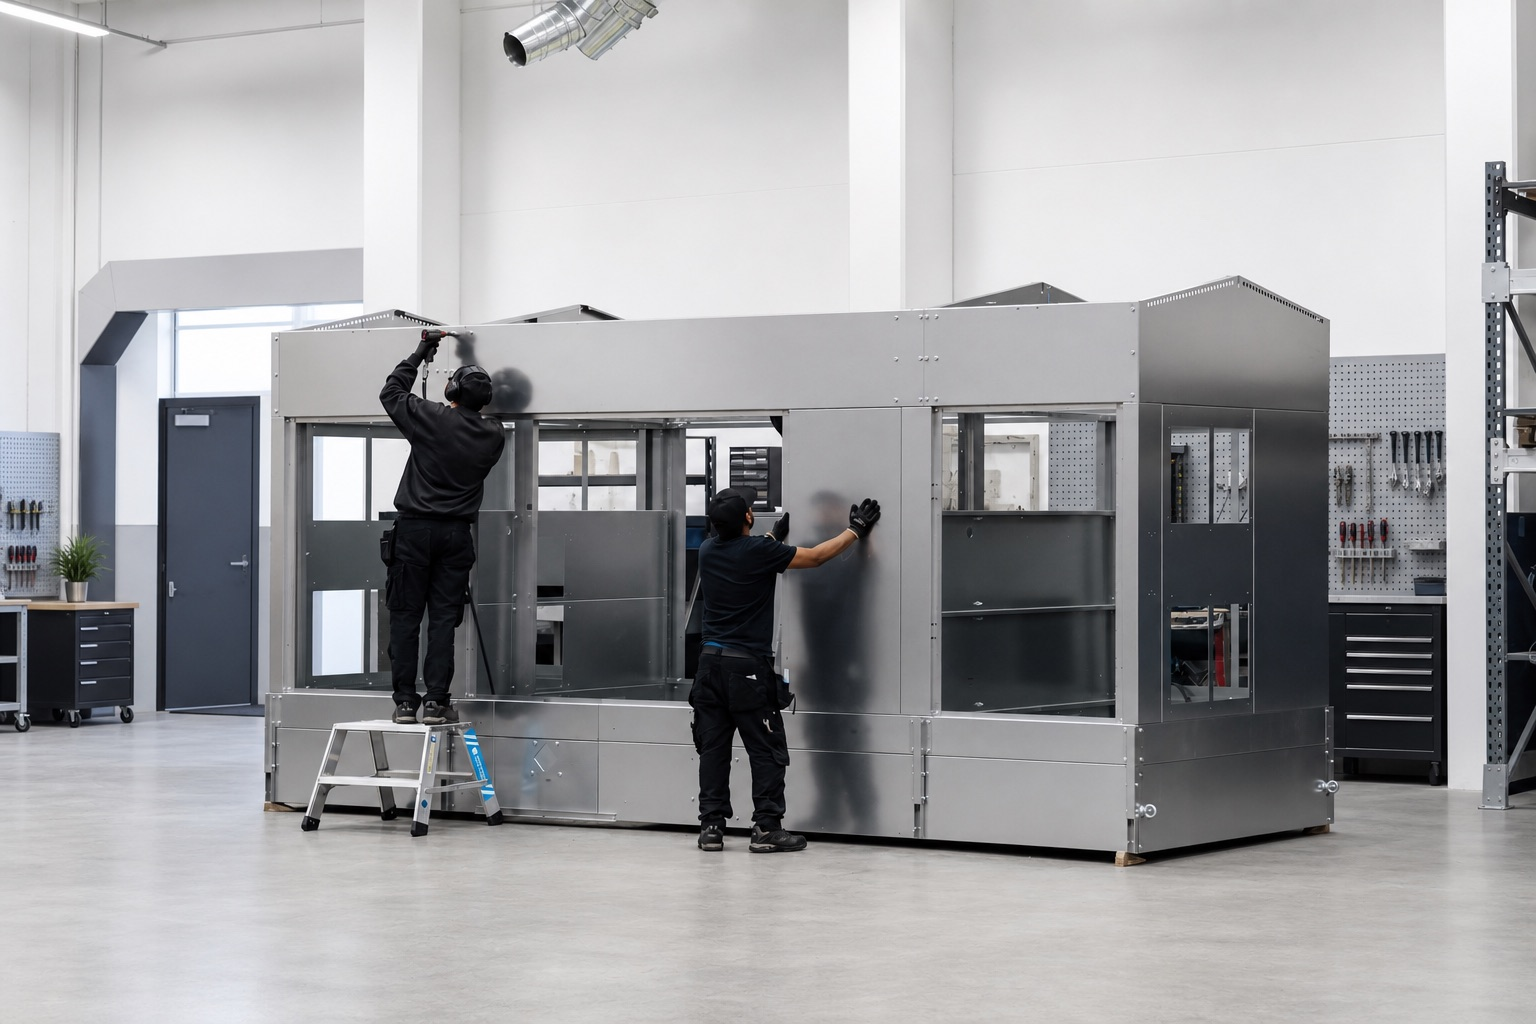
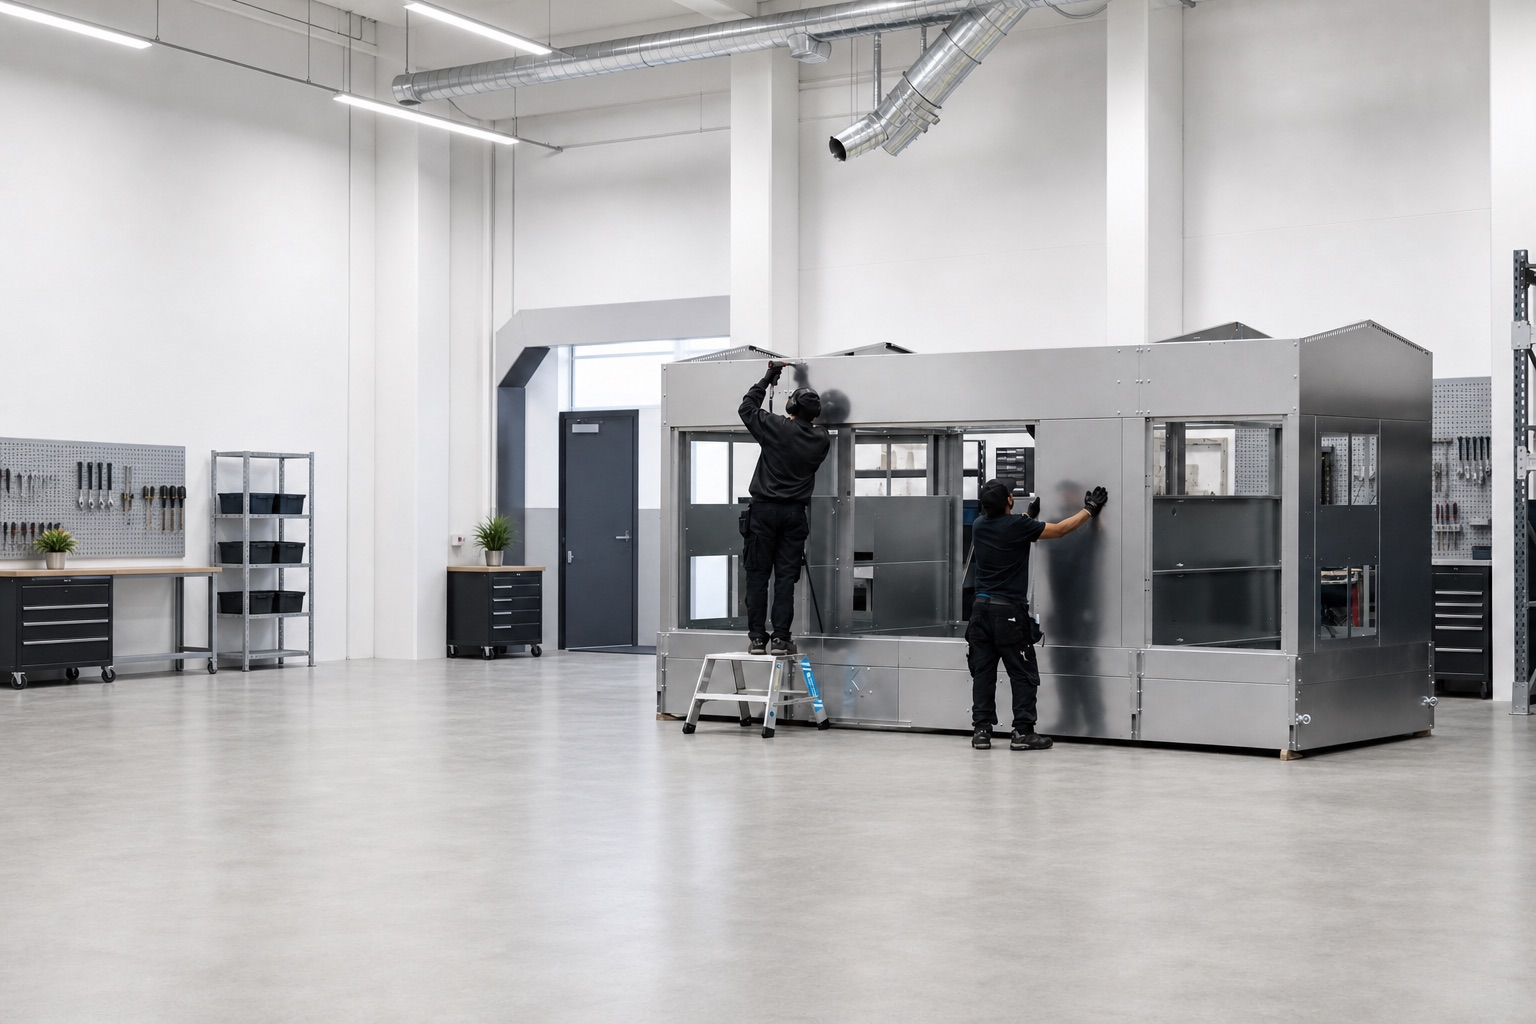
Hero: ny fabriksbild, lättare överlagring och bevisrad i bilden
Byter hero till den vidvinklade fabriksbilden och sänker överlagringen
kraftigt så att miljön syns. Tyngden flyttas till vänstergradienten där
texten står, medan stationen till höger lämnas nästan öppen.

Bevisraden flyttas in i hero som ett genomskinligt kort med backdrop-blur,
i stället för att ligga på en egen mörk platta där den smälte in.

Kontrasten är uppmätt per element mot bildens ljusaste punkter bakom
respektive text: eyebrow 5,94 · h1 3,37 · ingress 4,64 · faktavärde 6,44 ·
faktaetikett 4,85. Samtliga klarar WCAG AA.

diff --git a/src/styles/start.css b/src/styles/start.css
@@ -6,7 +6,8 @@
   position: relative;
   isolation: isolate;
   display: flex;
-  align-items: flex-end;
+  flex-direction: column;
+  justify-content: flex-end;
   /* Höjden följer innehållet snarare än tvärtom — annars hamnar texten
      svävande mitt i bilden i stället för att stå stadigt i underkant. */
   min-height: min(38rem, 72svh);
@@ -32,15 +33,16 @@
   object-position: center 56%;
 }
 
-/* Fabriksbilden är ljus, med vita väggar och blank plåt. Överlagringen är
-   satt så att även de ljusaste partierna bakom texten klarar AA mot vit text. */
+/* Lättare överlagring så att fabriksmiljön syns. Tyngden ligger till vänster
+   där texten står; höger sida, där stationen står, lämnas nästan öppen.
+   Nivåerna är satta efter mätning av ljusaste partiet bakom texten. */
 .hero__media::after {
   content: '';
   position: absolute;
   inset: 0;
   background:
-    linear-gradient(to top, rgb(14 26 36 / 0.95) 0%, rgb(14 26 36 / 0.82) 42%, rgb(14 26 36 / 0.42) 74%, rgb(14 26 36 / 0.55) 100%),
-    linear-gradient(to right, rgb(14 26 36 / 0.85) 0%, rgb(14 26 36 / 0.5) 42%, transparent 74%);
+    linear-gradient(to top, rgb(14 26 36 / 0.55) 0%, rgb(14 26 36 / 0.3) 50%, rgb(14 26 36 / 0.08) 85%, rgb(14 26 36 / 0.15) 100%),
+    linear-gradient(to right, rgb(14 26 36 / 0.9) 0%, rgb(14 26 36 / 0.8) 45%, rgb(14 26 36 / 0.35) 65%, transparent 82%);
 }
 
 /* .container centrerar sig själv. Att sätta max-width här skulle centrera hela
@@ -68,7 +70,9 @@
 }
 
 .hero .lead {
-  color: #dce6ed;
+  /* Ljusare än den generella ingressfärgen: med den lätta överlagringen är
+     det texten som får bära kontrasten, inte en mörkare bild. */
+  color: #e8eff5;
   max-width: 34rem;
 }
 
@@ -76,8 +80,29 @@
   margin-block-start: var(--space-m);
 }
 
+/* Bevisraden ligger i bilden, som ett genomskinligt kort så att fabriken syns
+   bakom. Utan genomskinligheten smälter den ihop med den mörka bottenplattan. */
 .hero-facts {
-  padding-block: var(--space-xl);
+  margin-block-start: var(--space-xl);
+}
+
+.hero-facts .factbar {
+  background: rgb(255 255 255 / 0.16);
+  border-color: rgb(255 255 255 / 0.22);
+  backdrop-filter: blur(14px) saturate(1.1);
+  box-shadow: 0 12px 32px rgb(6 12 18 / 0.32);
+}
+
+.hero-facts .fact {
+  background: rgb(12 22 31 / 0.5);
+}
+
+.hero-facts .fact__value {
+  color: #fff;
+}
+
+.hero-facts .fact__label {
+  color: #d4e0e8;
 }
 
 /* --- Kategorikort ---------------------------------------------------------- */

diff --git a/index.html b/index.html
@@ -38,11 +38,9 @@
             <a class="btn btn--on-dark" href="stationsbyggaren.html">Bygg din station</a>
           </div>
         </div>
-      </section>
 
-      <!-- Bevisrad -->
-      <section class="section section--dark hero-facts">
-        <div class="container">
+        <!-- Bevisrad, placerad i bilden -->
+        <div class="container hero-facts">
           <div class="factbar">
             <div class="fact">
               <p class="fact__value">60+</p>
